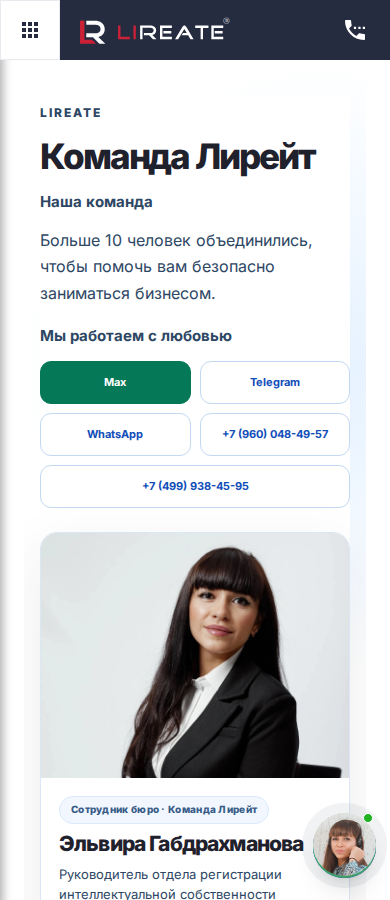
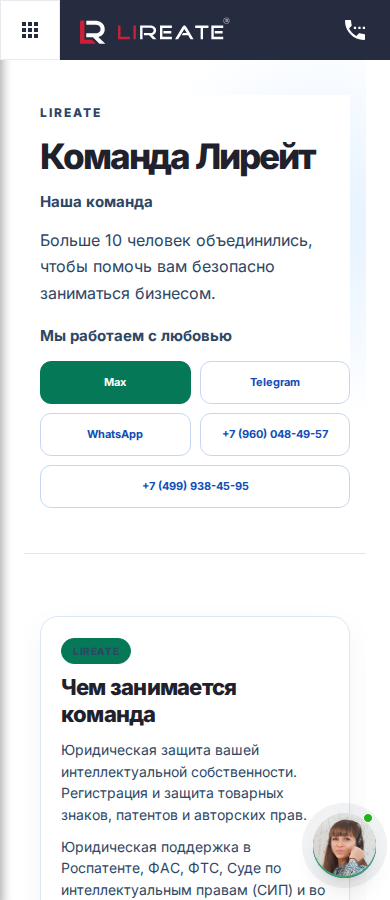
fix(company-v5): remove Elvira hero aside, multi-blob installer base
Drop lc5-hero-person aside on /o_kompanii and /team; single-column hero CSS.
BASE_ALLOWED accepts origin/main shared plus live eb93cb9 blobs (PHP, company
CSS, chrome). Asset ?v=20261126c; eb93 dry-run regression; refresh QA shots.

Changed region(s): [[0.0923, 0.5911, 0.9231, 1.0]]

diff --git a/template/css/lireate-company-pages-v5.css b/template/css/lireate-company-pages-v5.css
@@ -119,19 +119,33 @@ html body.lireate-company-v5 :is(
   margin:0 0 50px!important;
   overflow:hidden;
 }
-html body.lireate-company-v5 :is(
-  .lireate-about-hero,
-  .lireate-team-hero,
-  .lireate-partners-hero,
-  .lireate-docs-hero,
-  .lireate-contacts-hero
-)>:is(.lireate-about-wrap,.lireate-team-wrap,.lireate-partners-wrap,.lireate-docs-wrap,.lireate-contacts-wrap){
+html body.lireate-company-v5 :is(.lireate-partners-hero,.lireate-docs-hero,.lireate-contacts-hero)
+  >:is(.lireate-partners-wrap,.lireate-docs-wrap,.lireate-contacts-wrap){
   display:grid!important;
   grid-template-columns:minmax(0,1.12fr) minmax(320px,.88fr);
   grid-template-rows:auto auto auto auto 1fr;
   align-items:start;
   column-gap:clamp(25px,4vw,80px);
   min-height:465px;
+}
+html body.lireate-company-v5 :is(.lireate-about-hero,.lireate-team-hero)
+  >:is(.lireate-about-wrap,.lireate-team-wrap){
+  display:flex!important;
+  flex-direction:column!important;
+  align-items:flex-start!important;
+  gap:0!important;
+  min-height:0!important;
+  width:min(760px,calc(100% - 32px))!important;
+  max-width:760px!important;
+  margin-inline:auto!important;
+}
+html body.lireate-company-v5 :is(.lireate-about-hero,.lireate-team-hero)
+  >:is(.lireate-about-wrap,.lireate-team-wrap) :is(
+    .lireate-about-h1,.lireate-team-h1,.lireate-about-lead,.lireate-team-lead,
+    .lireate-team-sub,.lireate-team-tagline,.lireate-about-hero-actions,.lireate-team-hero-actions
+  ){
+  max-width:min(720px,100%)!important;
+  width:100%!important;
 }
 body.lireate-company-v5 :is(.lireate-about-kicker,.lireate-team-kicker,.lireate-partners-kicker,.lireate-docs-kicker,.lireate-contacts-kicker){
   display:block;

diff --git a/scripts/test_lireate_company_v5_install.py b/scripts/test_lireate_company_v5_install.py
@@ -1,12 +1,24 @@
 #!/usr/bin/env python3
 """Offline regression checks for the five-page Light V5 installer."""
 import pathlib
+import subprocess
 import sys
 import tempfile
 import unittest
 
 sys.path.insert(0, str(pathlib.Path(__file__).parent))
 import lireate_company_v5_install as inst
+
+EB93_COMMIT = "eb93cb9ccff3f89791a1579d2fb8eef289fc7cf5"
+HERO_MEDIA_PAGES = (
+    inst.PHP[2],
+    inst.PHP[3],
+    inst.PHP[4],
+    inst.PHP[7],
+    inst.PHP[8],
+    inst.PHP[9],
+)
+NO_HERO_MEDIA_PAGES = (inst.PHP[0], inst.PHP[1], inst.PHP[5], inst.PHP[6])
 
 
 class CompanyV5InstallTests(unittest.TestCase):
@@ -15,17 +27,19 @@ class CompanyV5InstallTests(unittest.TestCase):
         self.docroot = pathlib.Path(self.tmp.name) / "www"
         self.docroot.mkdir()
         self.backup = pathlib.Path(self.tmp.name) / "backup"
-        self.previous = dict(inst.BASE_BLOB)
+        self.previous = {k: set(v) for k, v in inst.BASE_ALLOWED.items()}
         for i, rel in enumerate(inst.PHP):
             dest = self.docroot / rel
             dest.parent.mkdir(parents=True, exist_ok=True)
             content = ('<?php echo "Original CMS page %d"; ?>' % i).encode("utf-8")
             dest.write_bytes(content)
-            inst.BASE_BLOB[str(rel)] = inst.blob_id(content)
+            inst.BASE_ALLOWED[str(rel)] = frozenset({inst.blob_id(content)})
 
     def tearDown(self):
-        inst.BASE_BLOB.clear()
-        inst.BASE_BLOB.update(self.previous)
+        inst.BASE_ALLOWED.clear()
+        inst.BASE_ALLOWED.update(
+            {k: frozenset(v) for k, v in self.previous.items()}
+        )
         self.tmp.cleanup()
 
     def test_dry_run_has_only_expected_file_paths_and_leaves_php_untouched(self):
@@ -58,7 +72,7 @@ class CompanyV5InstallTests(unittest.TestCase):
         asset = self.docroot / inst.ASSETS[0]
         asset.parent.mkdir(parents=True, exist_ok=True)
         asset.write_text("concurrent non-matching CSS", encoding="utf-8")
-        with self.assertRaisesRegex(ValueError, "existing unexpected shared asset"):
+        with self.assertRaisesRegex(ValueError, "live PHP differs"):
             inst.plan(self.docroot)
 
     def test_source_contains_actual_logo_art_and_five_exact_page_components(self):
@@ -82,19 +96,54 @@ class CompanyV5InstallTests(unittest.TestCase):
                 (inst.REPO / shared).read_text(encoding="utf-8"),
                 str(tpl),
             )
-        for rel in inst.PHP:
+        for rel in HERO_MEDIA_PAGES:
             page = (inst.REPO / rel).read_text(encoding="utf-8")
             self.assertIn("lireate-company-pages-v5.css", page)
             self.assertIn("lireate-company-v5", page)
             self.assertIn('class="lc5-hero-media', page)
+        for rel in NO_HERO_MEDIA_PAGES:
+            page = (inst.REPO / rel).read_text(encoding="utf-8")
+            self.assertIn("lireate-company-pages-v5.css", page)
+            self.assertIn("lireate-company-v5", page)
+            self.assertNotIn("lc5-hero-person", page)
+            self.assertNotIn("gabdrakhmanova-elvira", page)
         about = (inst.REPO / inst.PHP[5]).read_text(encoding="utf-8")
         self.assertIn("lireate_about_asset_url", about)
 
     def test_source_preserves_single_h1_in_each_page(self):
         import re
+
         for rel in inst.PHP:
             page = (inst.REPO / rel).read_text(encoding="utf-8")
             self.assertEqual(len(re.findall(r"<h1\b", page, re.I)), 1, str(rel))
+
+
+class CompanyV5Eb93DryRunTests(unittest.TestCase):
+    def test_dry_run_ok_on_eb93cb9_live_tree(self):
+        tmp = tempfile.TemporaryDirectory()
+        docroot = pathlib.Path(tmp.name) / "www"
+        docroot.mkdir()
+        try:
+            for rel in inst.FILES:
+                rel_s = str(rel)
+                try:
+                    blob = subprocess.check_output(
+                        ["git", "show", "%s:%s" % (EB93_COMMIT, rel_s)],
+                        cwd=inst.REPO,
+                        stderr=subprocess.DEVNULL,
+                    )
+                except subprocess.CalledProcessError:
+                    self.fail("missing file at %s: %s" % (EB93_COMMIT, rel_s))
+                dest = docroot / rel
+                dest.parent.mkdir(parents=True, exist_ok=True)
+                dest.write_bytes(blob)
+            changes = inst.plan(docroot)
+            self.assertTrue(set(changes).issubset(set(inst.FILES)))
+            for rel in inst.PHP:
+                self.assertIn(rel, changes, str(rel))
+            self.assertIn(inst.ASSETS[0], changes)
+        finally:
+            tmp.cleanup()
 
 
 if __name__ == "__main__":

diff --git a/scripts/lireate_company_v5_install.py b/scripts/lireate_company_v5_install.py
@@ -41,7 +41,7 @@ FILES = PHP + ASSETS
 # Refuse to overwrite a live PHP file with a different blob ID (concurrent
 # edits / different CMS version). The installer does not force through drift.
 # On REG.RU, live template/page/*-page.inc.php matches pages/*/_shared (not legacy
-# main template blobs). BASE_BLOB for both paths uses shared main commit blobs.
+# main template blobs). BASE_ALLOWED accepts main shared blobs and live eb93cb9.
 _SHARED_MAIN_BLOB = {
     "about": "aae9678d2bb526bd9f5fd83b4cd58363396218b3",
     "team": "271ba364ddad4336cbd1f5910372000032c64f18",
@@ -49,18 +49,38 @@ _SHARED_MAIN_BLOB = {
     "docs": "0c0353d76dbf98735fc45b41055a7406895bf718",
     "contacts": "62baf790c44b528a6c5610aee69f50588161386a",
 }
-BASE_BLOB = {
-    str(PHP[0]): _SHARED_MAIN_BLOB["about"],
-    str(PHP[1]): _SHARED_MAIN_BLOB["team"],
-    str(PHP[2]): _SHARED_MAIN_BLOB["partners"],
-    str(PHP[3]): _SHARED_MAIN_BLOB["docs"],
-    str(PHP[4]): _SHARED_MAIN_BLOB["contacts"],
-    str(PHP[5]): _SHARED_MAIN_BLOB["about"],
-    str(PHP[6]): _SHARED_MAIN_BLOB["team"],
-    str(PHP[7]): _SHARED_MAIN_BLOB["partners"],
-    str(PHP[8]): _SHARED_MAIN_BLOB["docs"],
-    str(PHP[9]): _SHARED_MAIN_BLOB["contacts"],
-    str(ASSETS[1]): "5a3242c525f22eee671b266405d2ef07644db8d4",
+# Blobs reviewed on live after PR #131 deploy (commit eb93cb9, 2026-11-26).
+_LIVE_EB93_BLOB = {
+    "about": "39f733d378eb660580a7956c01ef49d0a2b47e55",
+    "team": "370119a48162f2c0376c133f90bb9668ba9d7522",
+    "partners": "0f04e0924f7fc6450ddbbc3f3d4e81bcb05d7c6e",
+    "docs": "388ab3b998a940e38121a7f0ba451785f936e4d1",
+    "contacts": "1059d97107c011f87acef6d6bc96c4d3e332871d",
+    "company_css": "fecd7161ba8116e73061fd0e81caa7fd9b72e9bf",
+}
+
+
+def _php_base(key):
+    return frozenset({_SHARED_MAIN_BLOB[key], _LIVE_EB93_BLOB[key]})
+
+
+# Accept either pristine main shared PHP/CSS or the current live tree (eb93cb9).
+BASE_ALLOWED = {
+    str(PHP[0]): _php_base("about"),
+    str(PHP[1]): _php_base("team"),
+    str(PHP[2]): _php_base("partners"),
+    str(PHP[3]): _php_base("docs"),
+    str(PHP[4]): _php_base("contacts"),
+    str(PHP[5]): _php_base("about"),
+    str(PHP[6]): _php_base("team"),
+    str(PHP[7]): _php_base("partners"),
+    str(PHP[8]): _php_base("docs"),
+    str(PHP[9]): _php_base("contacts"),
+    str(ASSETS[0]): frozenset({_LIVE_EB93_BLOB["company_css"]}),
+    str(ASSETS[1]): frozenset({
+        "5a3242c525f22eee671b266405d2ef07644db8d4",
+        "6a318851ff07e55173983ed77326c4e188880865",  # live eb93cb9 chrome.css
+    }),
 }
 
 
@@ -94,9 +114,10 @@ def plan(docroot):
             existing = dest.read_bytes()
             if existing == desired:
                 continue
-            if str(rel) not in BASE_BLOB:
+            allowed = BASE_ALLOWED.get(str(rel))
+            if not allowed:
                 raise ValueError("BLOCKER: existing unexpected shared asset: " + str(rel))
-            if blob_id(existing) != BASE_BLOB[str(rel)]:
+            if blob_id(existing) not in allowed:
                 raise ValueError(
                     "BLOCKER: live PHP differs from reviewed main version: " +
                     str(rel) + "; inspect/rebase changes with Cursor instead of overwriting"

diff --git a/pages/o_kompanii/_shared/lireate-about-page.inc.php b/pages/o_kompanii/_shared/lireate-about-page.inc.php
@@ -20,7 +20,7 @@ $la_footer_css = defined('LIREATE_ABOUT_FOOTER_CSS_HREF')
 <link rel="stylesheet" href="<?php echo lireate_about_h($la_footer_css); ?>?v=<?php echo lireate_about_h($la_v); ?>">
 <link rel="stylesheet" href="/template/css/lireate-light-v4.css?v=<?php echo lireate_about_h($la_v); ?>"><!-- lireate_cms_light_v4 -->
 <link rel="stylesheet" href="/template/css/lireate-cms-pages-light-v4.css?v=<?php echo lireate_about_h($la_v); ?>">
-<link rel="stylesheet" href="/template/css/lireate-company-pages-v5.css?v=20261126b">
+<link rel="stylesheet" href="/template/css/lireate-company-pages-v5.css?v=20261126c">
 <script>
 document.documentElement.classList.add('lireate-about-html');
 document.documentElement.setAttribute('data-lireate-metrika-id', '<?php echo lireate_about_h(LIREATE_ABOUT_METRIKA_ID); ?>');
@@ -40,18 +40,6 @@ if (document.body) { document.body.classList.add('lireate-about-body'); document
         <a class="lireate-about-pill lireate-about-pill--outline" href="<?php echo lireate_about_h(LIREATE_ABOUT_PHONE_TEL); ?>" data-lx-ym-goal="klik_po_nomeru_telefona"><?php echo lireate_about_h(LIREATE_ABOUT_PHONE_DISPLAY); ?></a>
         <a class="lireate-about-pill lireate-about-pill--outline" href="<?php echo lireate_about_h(LIREATE_ABOUT_PHONE2_TEL); ?>" data-lx-ym-goal="klik_po_nomeru_telefona"><?php echo lireate_about_h(LIREATE_ABOUT_PHONE2_DISPLAY); ?></a>
       </div>
-
-      <aside class="lc5-hero-media lc5-hero-person" aria-label="Специалист Лирейт">
-        <div class="lc5-photo-shell">
-          <img src="/template/images/home/gabdrakhmanova-elvira-2026-11.webp" width="460" height="370" alt="Габдрахманова Эльвира Дамировна, руководитель отдела регистрации интеллектуальной собственности" fetchpriority="high" loading="eager" decoding="async">
-        </div>
-        <div class="lc5-media-body">
-          <span class="lc5-chip">Руководитель отдела · Команда Лирейт</span>
-          <strong>Эльвира Габдрахманова</strong>
-          <p>Руководитель отдела регистрации интеллектуальной собственности</p>
-          <a href="/team">Команда Лирейт ↗</a>
-        </div>
-      </aside>
     </div>
   </header>
 

diff --git a/template/page/o_kompanii/lireate-about-page.inc.php b/template/page/o_kompanii/lireate-about-page.inc.php
@@ -20,7 +20,7 @@ $la_footer_css = defined('LIREATE_ABOUT_FOOTER_CSS_HREF')
 <link rel="stylesheet" href="<?php echo lireate_about_h($la_footer_css); ?>?v=<?php echo lireate_about_h($la_v); ?>">
 <link rel="stylesheet" href="/template/css/lireate-light-v4.css?v=<?php echo lireate_about_h($la_v); ?>"><!-- lireate_cms_light_v4 -->
 <link rel="stylesheet" href="/template/css/lireate-cms-pages-light-v4.css?v=<?php echo lireate_about_h($la_v); ?>">
-<link rel="stylesheet" href="/template/css/lireate-company-pages-v5.css?v=20261126b">
+<link rel="stylesheet" href="/template/css/lireate-company-pages-v5.css?v=20261126c">
 <script>
 document.documentElement.classList.add('lireate-about-html');
 document.documentElement.setAttribute('data-lireate-metrika-id', '<?php echo lireate_about_h(LIREATE_ABOUT_METRIKA_ID); ?>');
@@ -40,18 +40,6 @@ if (document.body) { document.body.classList.add('lireate-about-body'); document
         <a class="lireate-about-pill lireate-about-pill--outline" href="<?php echo lireate_about_h(LIREATE_ABOUT_PHONE_TEL); ?>" data-lx-ym-goal="klik_po_nomeru_telefona"><?php echo lireate_about_h(LIREATE_ABOUT_PHONE_DISPLAY); ?></a>
         <a class="lireate-about-pill lireate-about-pill--outline" href="<?php echo lireate_about_h(LIREATE_ABOUT_PHONE2_TEL); ?>" data-lx-ym-goal="klik_po_nomeru_telefona"><?php echo lireate_about_h(LIREATE_ABOUT_PHONE2_DISPLAY); ?></a>
       </div>
-
-      <aside class="lc5-hero-media lc5-hero-person" aria-label="Специалист Лирейт">
-        <div class="lc5-photo-shell">
-          <img src="/template/images/home/gabdrakhmanova-elvira-2026-11.webp" width="460" height="370" alt="Габдрахманова Эльвира Дамировна, руководитель отдела регистрации интеллектуальной собственности" fetchpriority="high" loading="eager" decoding="async">
-        </div>
-        <div class="lc5-media-body">
-          <span class="lc5-chip">Руководитель отдела · Команда Лирейт</span>
-          <strong>Эльвира Габдрахманова</strong>
-          <p>Руководитель отдела регистрации интеллектуальной собственности</p>
-          <a href="/team">Команда Лирейт ↗</a>
-        </div>
-      </aside>
     </div>
   </header>
 

diff --git a/pages/team/_shared/lireate-team-page.inc.php b/pages/team/_shared/lireate-team-page.inc.php
@@ -31,7 +31,7 @@ $lt_footer_css = defined('LIREATE_TEAM_FOOTER_CSS_HREF')
 <link rel="stylesheet" href="<?php echo lireate_team_h($lt_footer_css); ?>?v=<?php echo lireate_team_h($lt_v); ?>">
 <link rel="stylesheet" href="/template/css/lireate-light-v4.css?v=<?php echo lireate_team_h($lt_v); ?>">
 <link rel="stylesheet" href="/template/css/lireate-cms-pages-light-v4.css?v=<?php echo lireate_team_h($lt_v); ?>">
-<link rel="stylesheet" href="/template/css/lireate-company-pages-v5.css?v=20261126b">
+<link rel="stylesheet" href="/template/css/lireate-company-pages-v5.css?v=20261126c">
 <script>
 document.documentElement.classList.add('lireate-team-html');
 document.documentElement.setAttribute('data-lireate-metrika-id', '<?php echo lireate_team_h(LIREATE_TEAM_METRIKA_ID); ?>');
@@ -57,18 +57,6 @@ if (document.body) { document.body.classList.add('lireate-team-body'); document.
         <a class="lireate-team-pill lireate-team-pill--outline" href="<?php echo lireate_team_h(LIREATE_TEAM_PHONE_TEL); ?>" data-lx-ym-goal="klik_po_nomeru_telefona"><?php echo lireate_team_h(LIREATE_TEAM_PHONE_DISPLAY); ?></a>
         <a class="lireate-team-pill lireate-team-pill--outline" href="<?php echo lireate_team_h(LIREATE_TEAM_PHONE2_TEL); ?>" data-lx-ym-goal="klik_po_nomeru_telefona"><?php echo lireate_team_h(LIREATE_TEAM_PHONE2_DISPLAY); ?></a>
       </div>
-
-      <aside class="lc5-hero-media lc5-hero-person" aria-label="Специалист Лирейт">
-        <div class="lc5-photo-shell">
-          <img src="/template/images/home/gabdrakhmanova-elvira-2026-11.webp" width="460" height="370" alt="Габдрахманова Эльвира Дамировна, руководитель отдела регистрации интеллектуальной собственности" fetchpriority="high" loading="eager" decoding="async">
-        </div>
-        <div class="lc5-media-body">
-          <span class="lc5-chip">Сотрудник бюро · Команда Лирейт</span>
-          <strong>Эльвира Габдрахманова</strong>
-          <p>Руководитель отдела регистрации интеллектуальной собственности</p>
-          <a href="/team">Команда Лирейт ↗</a>
-        </div>
-      </aside>
     </div>
   </header>
 

diff --git a/template/page/team/lireate-team-page.inc.php b/template/page/team/lireate-team-page.inc.php
@@ -31,7 +31,7 @@ $lt_footer_css = defined('LIREATE_TEAM_FOOTER_CSS_HREF')
 <link rel="stylesheet" href="<?php echo lireate_team_h($lt_footer_css); ?>?v=<?php echo lireate_team_h($lt_v); ?>">
 <link rel="stylesheet" href="/template/css/lireate-light-v4.css?v=<?php echo lireate_team_h($lt_v); ?>">
 <link rel="stylesheet" href="/template/css/lireate-cms-pages-light-v4.css?v=<?php echo lireate_team_h($lt_v); ?>">
-<link rel="stylesheet" href="/template/css/lireate-company-pages-v5.css?v=20261126b">
+<link rel="stylesheet" href="/template/css/lireate-company-pages-v5.css?v=20261126c">
 <script>
 document.documentElement.classList.add('lireate-team-html');
 document.documentElement.setAttribute('data-lireate-metrika-id', '<?php echo lireate_team_h(LIREATE_TEAM_METRIKA_ID); ?>');
@@ -57,18 +57,6 @@ if (document.body) { document.body.classList.add('lireate-team-body'); document.
         <a class="lireate-team-pill lireate-team-pill--outline" href="<?php echo lireate_team_h(LIREATE_TEAM_PHONE_TEL); ?>" data-lx-ym-goal="klik_po_nomeru_telefona"><?php echo lireate_team_h(LIREATE_TEAM_PHONE_DISPLAY); ?></a>
         <a class="lireate-team-pill lireate-team-pill--outline" href="<?php echo lireate_team_h(LIREATE_TEAM_PHONE2_TEL); ?>" data-lx-ym-goal="klik_po_nomeru_telefona"><?php echo lireate_team_h(LIREATE_TEAM_PHONE2_DISPLAY); ?></a>
       </div>
-
-      <aside class="lc5-hero-media lc5-hero-person" aria-label="Специалист Лирейт">
-        <div class="lc5-photo-shell">
-          <img src="/template/images/home/gabdrakhmanova-elvira-2026-11.webp" width="460" height="370" alt="Габдрахманова Эльвира Дамировна, руководитель отдела регистрации интеллектуальной собственности" fetchpriority="high" loading="eager" decoding="async">
-        </div>
-        <div class="lc5-media-body">
-          <span class="lc5-chip">Сотрудник бюро · Команда Лирейт</span>
-          <strong>Эльвира Габдрахманова</strong>
-          <p>Руководитель отдела регистрации интеллектуальной собственности</p>
-          <a href="/team">Команда Лирейт ↗</a>
-        </div>
-      </aside>
     </div>
   </header>
 

diff --git a/pages/kontaktyi/_shared/lireate-contacts-page.inc.php b/pages/kontaktyi/_shared/lireate-contacts-page.inc.php
@@ -36,7 +36,7 @@ $lc_footer_css = defined('LIREATE_CONTACTS_FOOTER_CSS_HREF')
 <link href="https://fonts.googleapis.com/css2?family=Marmelad&family=Rubik:wght@400;600;700&family=Unbounded:wght@700;800&display=swap" rel="stylesheet">
 <link rel="stylesheet" href="<?php echo lireate_contacts_h($lc_assets); ?>/lireate-contacts.css?v=<?php echo lireate_contacts_h($lc_v); ?>">
 <link rel="stylesheet" href="<?php echo lireate_contacts_h($lc_footer_css); ?>?v=<?php echo lireate_contacts_h($lc_v); ?>">
-<link rel="stylesheet" href="/template/css/lireate-company-pages-v5.css?v=20261126b">
+<link rel="stylesheet" href="/template/css/lireate-company-pages-v5.css?v=20261126c">
 <script>
 document.documentElement.classList.add('lireate-contacts-html');
 document.documentElement.setAttribute('data-lireate-metrika-id', '<?php echo lireate_contacts_h(LIREATE_CONTACTS_METRIKA_ID); ?>');

diff --git a/pages/partners/_shared/lireate-partners-page.inc.php b/pages/partners/_shared/lireate-partners-page.inc.php
@@ -34,7 +34,7 @@ $lp_footer_css = defined('LIREATE_PARTNERS_FOOTER_CSS_HREF')
 <link href="https://fonts.googleapis.com/css2?family=Marmelad&family=Rubik:wght@400;600;700&family=Unbounded:wght@700;800&display=swap" rel="stylesheet">
 <link rel="stylesheet" href="<?php echo lireate_partners_h($lp_assets); ?>/lireate-partners.css?v=<?php echo lireate_partners_h($lp_v); ?>">
 <link rel="stylesheet" href="<?php echo lireate_partners_h($lp_footer_css); ?>?v=<?php echo lireate_partners_h($lp_v); ?>">
-<link rel="stylesheet" href="/template/css/lireate-company-pages-v5.css?v=20261126b">
+<link rel="stylesheet" href="/template/css/lireate-company-pages-v5.css?v=20261126c">
 <script>
 document.documentElement.classList.add('lireate-partners-html');
 document.documentElement.setAttribute('data-lireate-metrika-id', '<?php echo lireate_partners_h(LIREATE_PARTNERS_METRIKA_ID); ?>');

diff --git a/template/page/kontaktyi/lireate-contacts-page.inc.php b/template/page/kontaktyi/lireate-contacts-page.inc.php
@@ -36,7 +36,7 @@ $lc_footer_css = defined('LIREATE_CONTACTS_FOOTER_CSS_HREF')
 <link href="https://fonts.googleapis.com/css2?family=Marmelad&family=Rubik:wght@400;600;700&family=Unbounded:wght@700;800&display=swap" rel="stylesheet">
 <link rel="stylesheet" href="<?php echo lireate_contacts_h($lc_assets); ?>/lireate-contacts.css?v=<?php echo lireate_contacts_h($lc_v); ?>">
 <link rel="stylesheet" href="<?php echo lireate_contacts_h($lc_footer_css); ?>?v=<?php echo lireate_contacts_h($lc_v); ?>">
-<link rel="stylesheet" href="/template/css/lireate-company-pages-v5.css?v=20261126b">
+<link rel="stylesheet" href="/template/css/lireate-company-pages-v5.css?v=20261126c">
 <script>
 document.documentElement.classList.add('lireate-contacts-html');
 document.documentElement.setAttribute('data-lireate-metrika-id', '<?php echo lireate_contacts_h(LIREATE_CONTACTS_METRIKA_ID); ?>');

diff --git a/template/page/partners/lireate-partners-page.inc.php b/template/page/partners/lireate-partners-page.inc.php
@@ -34,7 +34,7 @@ $lp_footer_css = defined('LIREATE_PARTNERS_FOOTER_CSS_HREF')
 <link href="https://fonts.googleapis.com/css2?family=Marmelad&family=Rubik:wght@400;600;700&family=Unbounded:wght@700;800&display=swap" rel="stylesheet">
 <link rel="stylesheet" href="<?php echo lireate_partners_h($lp_assets); ?>/lireate-partners.css?v=<?php echo lireate_partners_h($lp_v); ?>">
 <link rel="stylesheet" href="<?php echo lireate_partners_h($lp_footer_css); ?>?v=<?php echo lireate_partners_h($lp_v); ?>">
-<link rel="stylesheet" href="/template/css/lireate-company-pages-v5.css?v=20261126b">
+<link rel="stylesheet" href="/template/css/lireate-company-pages-v5.css?v=20261126c">
 <script>
 document.documentElement.classList.add('lireate-partners-html');
 document.documentElement.setAttribute('data-lireate-metrika-id', '<?php echo lireate_partners_h(LIREATE_PARTNERS_METRIKA_ID); ?>');

diff --git a/pages/docs/_shared/lireate-docs-page.inc.php b/pages/docs/_shared/lireate-docs-page.inc.php
@@ -17,7 +17,7 @@ $ld_footer_css = defined('LIREATE_DOCS_FOOTER_CSS_HREF')
 <link href="https://fonts.googleapis.com/css2?family=Rubik:wght@400;600;700&family=Unbounded:wght@700;800&display=swap" rel="stylesheet">
 <link rel="stylesheet" href="<?php echo lireate_docs_h($ld_assets); ?>/lireate-docs.css?v=<?php echo lireate_docs_h($ld_v); ?>">
 <link rel="stylesheet" href="<?php echo lireate_docs_h($ld_footer_css); ?>?v=<?php echo lireate_docs_h($ld_v); ?>">
-<link rel="stylesheet" href="/template/css/lireate-company-pages-v5.css?v=20261126b">
+<link rel="stylesheet" href="/template/css/lireate-company-pages-v5.css?v=20261126c">
 <script>
 document.documentElement.classList.add('lireate-docs-html');
 document.documentElement.setAttribute('data-lireate-metrika-id', '<?php echo lireate_docs_h(LIREATE_DOCS_METRIKA_ID); ?>');
